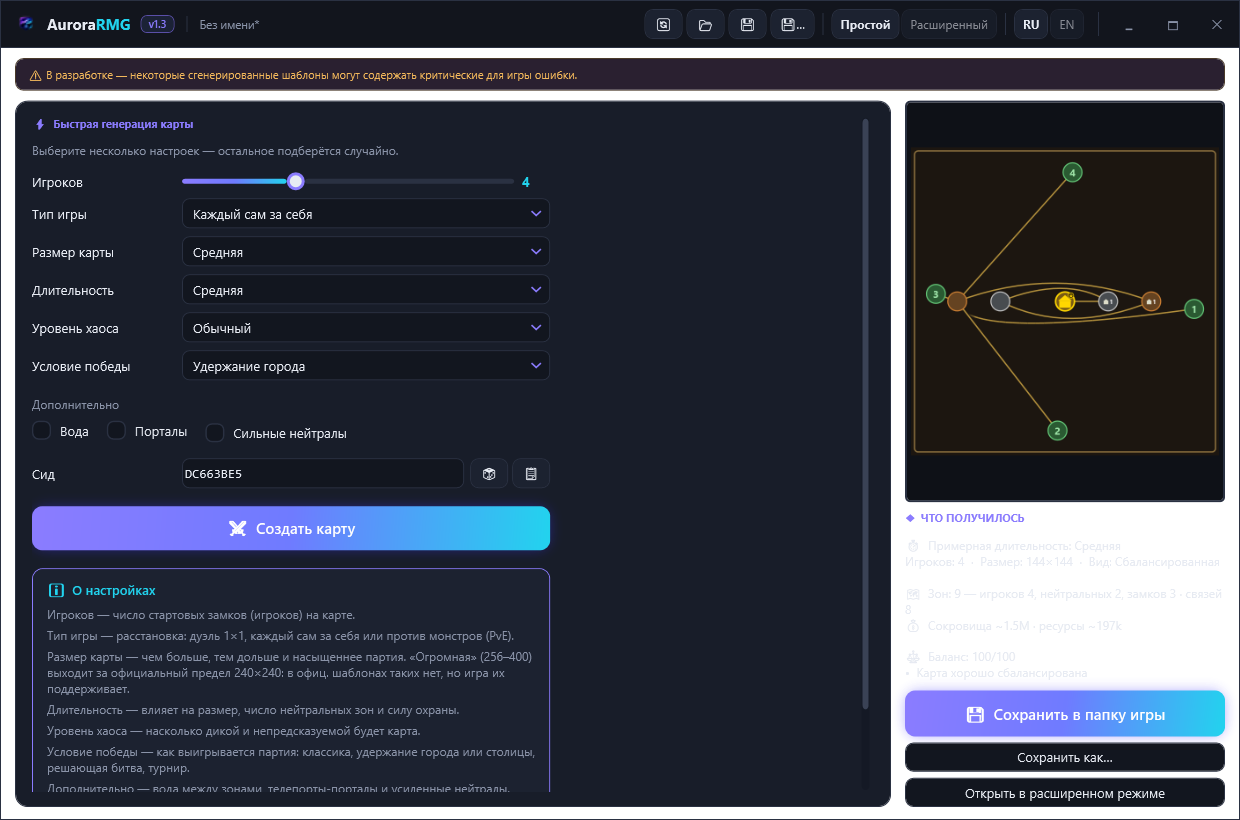
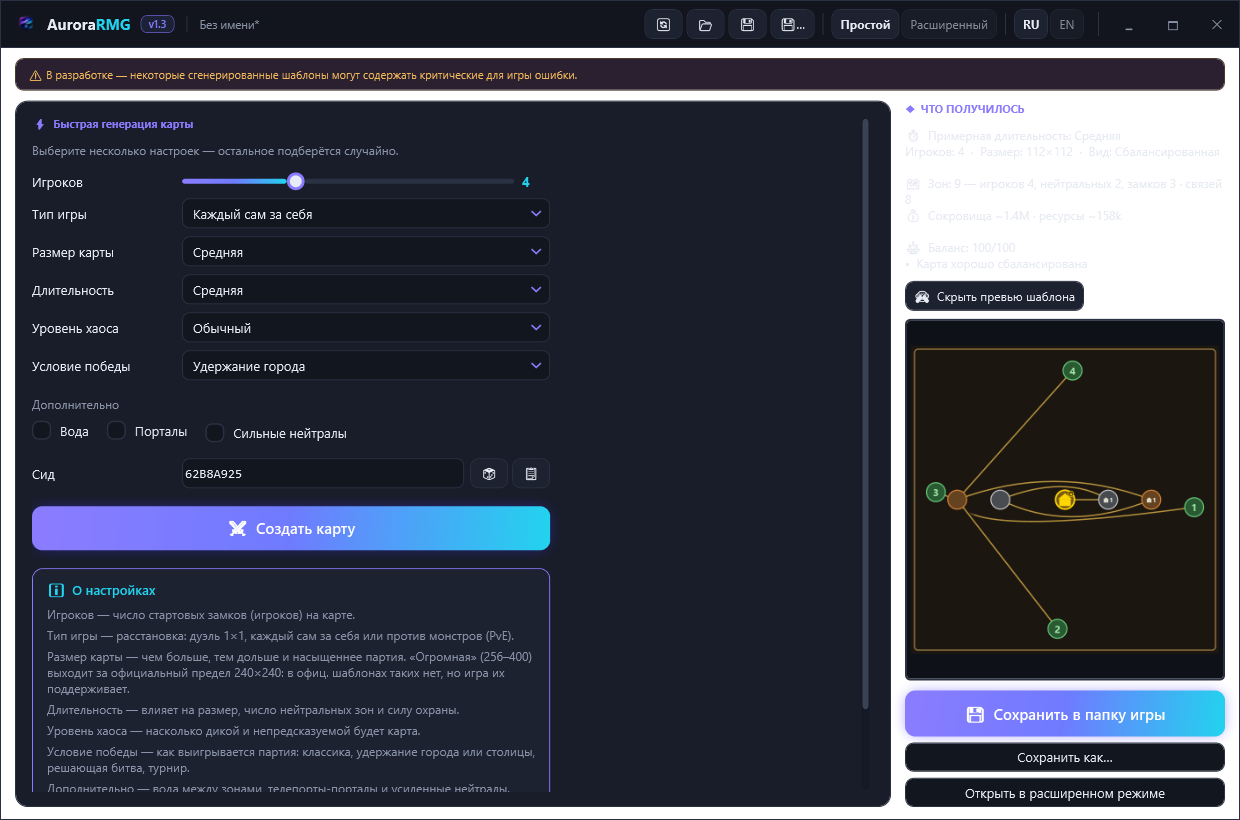
Release v1.3.1 — Simple Mode: hide preview behind a toggle + fix Reset settings
Feedback round 5 (Toni): "Reset settings" now works in Simple mode (it used to
reset only Advanced); the template preview is hidden by default behind a
Show/Hide toggle so the Simple generator feels genuinely random — the result
summary (length, players, balance) leads, and the map structure is one click away.
+2 RU/EN keys (parity green), build 0-warning, 113 tests green.

diff --git a/Olden Era - Template Editor/MainWindow.xaml b/Olden Era - Template Editor/MainWindow.xaml
@@ -3212,12 +3212,14 @@ ValueChanged="Slider_ValueChanged"/>
                     </ScrollViewer>
                 </Border>
 
-                <!-- ── Preview / summary / actions ─────────────────────── -->
+                <!-- ── Result summary / optional preview / actions ─────── -->
                 <Grid Grid.Column="2">
                     <Grid.RowDefinitions>
-                        <RowDefinition Height="*"/>     <!-- preview -->
+                        <RowDefinition Height="Auto"/>  <!-- result summary (leads) -->
+                        <RowDefinition Height="10"/>
+                        <RowDefinition Height="Auto"/>  <!-- show/hide preview toggle -->
                         <RowDefinition Height="8"/>
-                        <RowDefinition Height="Auto"/>  <!-- summary -->
+                        <RowDefinition Height="*"/>     <!-- collapsible preview / breathing room -->
                         <RowDefinition Height="10"/>
                         <RowDefinition Height="Auto"/>  <!-- save to game (primary) -->
                         <RowDefinition Height="6"/>
@@ -3226,7 +3228,22 @@ ValueChanged="Slider_ValueChanged"/>
                         <RowDefinition Height="Auto"/>  <!-- open advanced -->
                     </Grid.RowDefinitions>
 
-                    <Border Grid.Row="0" BorderThickness="2" CornerRadius="4"
+                    <!-- The result leads — keeps the "random map" feel; the template structure stays hidden. -->
+                    <StackPanel Grid.Row="0">
+                        <TextBlock Text="{DynamicResource S.Simple.SummaryTitle}" Style="{StaticResource SectionHeader}"/>
+                        <TextBlock x:Name="TxtSimpleSummary" TextWrapping="Wrap"
+                                   Foreground="{StaticResource BrushText}" FontSize="12"/>
+                    </StackPanel>
+
+                    <!-- Template preview is opt-in (hidden by default) for the "illusion of randomness". -->
+                    <Button Grid.Row="2" x:Name="BtnSimpleTogglePreview"
+                            Content="{DynamicResource S.Simple.ShowPreview}"
+                            HorizontalAlignment="Left"
+                            Style="{StaticResource ToolbarButton}"
+                            IsEnabled="False" Click="BtnSimpleTogglePreview_Click"/>
+
+                    <Border Grid.Row="4" x:Name="SimplePreviewBox" Visibility="Collapsed"
+                            BorderThickness="2" CornerRadius="4"
                             BorderBrush="{StaticResource BrushBorder}" Background="#0E1117">
                         <Grid>
                             <TextBlock x:Name="TxtSimpleNoPreview"
@@ -3241,22 +3258,16 @@ ValueChanged="Slider_ValueChanged"/>
                         </Grid>
                     </Border>
 
-                    <StackPanel Grid.Row="2">
-                        <TextBlock Text="{DynamicResource S.Simple.SummaryTitle}" Style="{StaticResource SectionHeader}"/>
-                        <TextBlock x:Name="TxtSimpleSummary" TextWrapping="Wrap"
-                                   Foreground="{StaticResource BrushText}" FontSize="12"/>
-                    </StackPanel>
-
-                    <Button Grid.Row="4" x:Name="BtnSimpleSaveToGame"
+                    <Button Grid.Row="6" x:Name="BtnSimpleSaveToGame"
                             Content="{DynamicResource S.Simple.SaveToGame}"
                             Style="{StaticResource GenerateButton}"
                             IsEnabled="False" Click="BtnSimpleSaveToGame_Click"/>
 
-                    <Button Grid.Row="6" x:Name="BtnSimpleSave"
+                    <Button Grid.Row="8" x:Name="BtnSimpleSave"
                             Content="{DynamicResource S.Simple.SaveAs}"
                             IsEnabled="False" Click="BtnSimpleSave_Click"/>
 
-                    <Button Grid.Row="8" x:Name="BtnSimpleOpenAdvanced"
+                    <Button Grid.Row="10" x:Name="BtnSimpleOpenAdvanced"
                             Content="{DynamicResource S.Simple.OpenAdvanced}"
                             IsEnabled="False" Click="BtnSimpleOpenAdvanced_Click"/>
                 </Grid>

diff --git a/Olden Era - Template Editor/MainWindow.xaml.cs b/Olden Era - Template Editor/MainWindow.xaml.cs
@@ -2048,10 +2048,42 @@ namespace Olden_Era___Template_Editor
             var result = MessageBox.Show(L.Get("S.D.ResetConfirm"), L.Get("S.D.ResetTitle"),
                                          MessageBoxButton.YesNo, MessageBoxImage.Question);
             if (result != MessageBoxResult.Yes) return;
+
+            // Simple Mode has its own controls (the Advanced ApplySettings does not touch them),
+            // so the reset must be routed to whichever view is currently shown.
+            if (SimpleView != null && SimpleView.Visibility == Visibility.Visible)
+            {
+                ResetSimpleToDefaults();
+                return;
+            }
+
             ApplySettings(new SettingsFile());
             _currentSettingsPath = null;
             _isDirty = false;
             UpdateTitle();
+        }
+
+        /// <summary>Resets the Simple-mode options to defaults (+ a fresh seed) and clears the last result,
+        /// mirroring what BtnNew does for the Advanced view. Used by the header "Reset settings" in Simple mode.</summary>
+        private void ResetSimpleToDefaults()
+        {
+            ApplySimpleState(new Services.GameData.SimpleModeState()); // default selections
+            TxtSimpleSeed.Text = ((uint)NewSeed()).ToString("X8");      // a fresh seed too
+            SaveSimpleState();                                          // persist the reset
+
+            // Clear the result panel + collapse the optional preview.
+            _generatedTemplate = null;
+            _lastQuickSettings = null;
+            if (ImgSimplePreview   != null) ImgSimplePreview.Source = null;
+            if (TxtSimpleNoPreview != null) TxtSimpleNoPreview.Visibility = Visibility.Visible;
+            if (SimplePreviewBox   != null) SimplePreviewBox.Visibility   = Visibility.Collapsed;
+            if (TxtSimpleSummary   != null) TxtSimpleSummary.Text = string.Empty;
+            BtnSimpleSaveToGame.IsEnabled   = false;
+            BtnSimpleSave.IsEnabled         = false;
+            BtnSimpleOpenAdvanced.IsEnabled = false;
+            if (BtnSimpleTogglePreview != null) BtnSimpleTogglePreview.IsEnabled = false;
+            BtnSaveGenerated.Visibility = Visibility.Collapsed;
+            UpdateSimplePreviewToggle();
         }
 
         private void BtnOpen_Click(object sender, RoutedEventArgs e)
@@ -2154,6 +2186,7 @@ namespace Olden_Era___Template_Editor
             BuildPresetMenu();          // submenu group names + preset display names
             RefreshBannedHeroNames();   // ban rows re-resolve names
             UpdateLanguageButtons();
+            UpdateSimplePreviewToggle();   // Simple-mode preview toggle caption (code-set, re-localize here)
             if (TxtWipWarning != null) TxtWipWarning.Text = L.Get("S.CB.Wip");
             if (IsInitialized) { Validate(); UpdateTitle(); }  // refresh validation hints in the new language
         }
@@ -2219,6 +2252,8 @@ namespace Olden_Era___Template_Editor
         {
             ApplySimpleState(Services.GameData.AppSettings.Current.Simple); // restore last-used selections
             TxtSimpleSeed.Text = ((uint)NewSeed()).ToString("X8");           // always a fresh seed per launch
+
+            UpdateSimplePreviewToggle();   // initial caption ("Show preview"); button stays disabled until a map exists
 
             bool advanced = string.Equals(Services.GameData.AppSettings.Current.Mode, "advanced", StringComparison.OrdinalIgnoreCase);
             SetMode(advanced, persist: false);
@@ -2331,8 +2366,28 @@ namespace Olden_Era___Template_Editor
             BtnSimpleSaveToGame.IsEnabled = true;
             BtnSimpleSave.IsEnabled = true;
             BtnSimpleOpenAdvanced.IsEnabled = true;
+            BtnSimpleTogglePreview.IsEnabled = true;          // preview is now available on demand
+            UpdateSimplePreviewToggle();                       // (re)sync the toggle caption; preview stays hidden by default
             BtnSaveGenerated.Visibility = Visibility.Visible; // keep the advanced save path in sync too
             SaveSimpleState();                                 // remember these selections for next launch
+        }
+
+        /// <summary>Toggles the optional template-structure preview in Simple mode. Hidden by default so the
+        /// generator feels like a "real random map generator"; the player reveals the layout only if they wish.</summary>
+        private void BtnSimpleTogglePreview_Click(object sender, RoutedEventArgs e)
+        {
+            if (SimplePreviewBox == null) return;
+            bool show = SimplePreviewBox.Visibility != Visibility.Visible;
+            SimplePreviewBox.Visibility = show ? Visibility.Visible : Visibility.Collapsed;
+            UpdateSimplePreviewToggle();
+        }
+
+        /// <summary>Syncs the Simple-mode preview toggle caption to the current preview visibility (re-localizable).</summary>
+        private void UpdateSimplePreviewToggle()
+        {
+            if (BtnSimpleTogglePreview == null) return;
+            bool shown = SimplePreviewBox != null && SimplePreviewBox.Visibility == Visibility.Visible;
+            BtnSimpleTogglePreview.Content = L.Get(shown ? "S.Simple.HidePreview" : "S.Simple.ShowPreview");
         }
 
         private static readonly string[] SimpleLenLabelKeys = ["S.Simple.Len.Short", "S.Simple.Len.Medium", "S.Simple.Len.Long"];

diff --git a/Olden Era - Template Editor/Localization/Strings.cs b/Olden Era - Template Editor/Localization/Strings.cs
@@ -34,6 +34,8 @@ namespace Olden_Era___Template_Editor.Localization
             ["S.Simple.OpenAdvanced"]    = "Открыть в расширенном режиме",
             ["S.Simple.SummaryTitle"]    = "◆  ЧТО ПОЛУЧИЛОСЬ",
             ["S.Simple.NoPreview"]       = "Нажмите «Создать карту»",
+            ["S.Simple.ShowPreview"]     = "👁  Показать превью шаблона",
+            ["S.Simple.HidePreview"]     = "🙈  Скрыть превью шаблона",
             ["S.Simple.Type.Duel"]       = "Дуэль (1 на 1)",
             ["S.Simple.Type.FFA"]        = "Каждый сам за себя",
             ["S.Simple.Type.Pve"]        = "Против монстров (PvE)",
@@ -507,6 +509,8 @@ namespace Olden_Era___Template_Editor.Localization
             ["S.Simple.OpenAdvanced"]    = "Open in Advanced mode",
             ["S.Simple.SummaryTitle"]    = "◆  RESULT",
             ["S.Simple.NoPreview"]       = "Click \"Create map\"",
+            ["S.Simple.ShowPreview"]     = "👁  Show template preview",
+            ["S.Simple.HidePreview"]     = "🙈  Hide template preview",
             ["S.Simple.Type.Duel"]       = "Duel (1v1)",
             ["S.Simple.Type.FFA"]        = "Free-for-all",
             ["S.Simple.Type.Pve"]        = "Versus monsters (PvE)",

diff --git a/Olden Era - Template Editor/MainWindow.Shoot.cs b/Olden Era - Template Editor/MainWindow.Shoot.cs
@@ -86,6 +86,8 @@ namespace Olden_Era___Template_Editor
                 // ── Simple Mode (the default landing view) ──
                 SetMode(advanced: false, persist: false);
                 try { BtnSimpleGenerate_Click(this, new RoutedEventArgs()); } catch { /* preview is best-effort */ }
+                // Reveal the (default-hidden) preview so the docs screenshot shows the full feature.
+                try { if (SimplePreviewBox != null) { SimplePreviewBox.Visibility = Visibility.Visible; UpdateSimplePreviewToggle(); } } catch { }
                 await Dispatcher.Yield(DispatcherPriority.Background);
                 root.UpdateLayout();
                 await Task.Delay(550);

diff --git a/README.en.md b/README.en.md
@@ -24,13 +24,18 @@
 
 ---
 
-## 🆕 What's new in 1.3.0
+## 🆕 What's new in 1.3.1
 
-### 🗺 Large maps — bigger than 240×240
-
-By popular request you can now create maps larger than the old 240×240 cap — better for long, rich games.
+### 🎲 Simple Mode got cleaner — from player feedback
 
 ![Simple Mode](docs/ui-simple-en.png)
+
+- **The template preview is hidden by default.** Simple Mode now leads with the result ("what you got" + the balance score); the map structure is one click away via **"👁 Show template preview"** — so generation feels genuinely random.
+- **"Reset settings" now works in Simple Mode too.** It used to reset only Advanced — now it resets Simple as well (fresh seed, cleared result).
+
+### 🗺 Large maps — bigger than 240×240 *(from 1.3.0)*
+
+By popular request you can now create maps larger than the old 240×240 cap — better for long, rich games.
 
 - In **Simple Mode** — a new map size **"Huge (256–400)"**.
 - In **Advanced Mode** the large-maps option **256×256 … 512×512** is now in plain sight — a highlighted checkbox right under the size picker (it existed before, but was hard to find).
@@ -51,7 +56,7 @@ Neutral zones now reliably get **signature objects** (dragon utopias, research l
 
 ## 📑 Contents
 
-- [What's new in 1.3.0](#-whats-new-in-130)
+- [What's new in 1.3.1](#-whats-new-in-131)
 - [What is this](#-what-is-this)
 - [Installation](#-installation)
 - [Build authenticity verification](#-build-authenticity-verification)

diff --git a/README.md b/README.md
@@ -24,13 +24,18 @@
 
 ---
 
-## 🆕 Что нового в 1.3.0
+## 🆕 Что нового в 1.3.1
 
-### 🗺 Большие карты — больше 240×240
-
-По просьбам игроков теперь можно создавать карты крупнее прежнего предела 240×240 — на них интереснее долгие, насыщенные партии.
+### 🎲 Простой режим стал чище — по фидбэку игроков
 
 ![Простой режим](docs/ui-simple.png)
+
+- **Превью шаблона скрыто по умолчанию.** Простой режим теперь ведёт результатом («что получилось» + оценка баланса), а структуру карты можно раскрыть кнопкой **«👁 Показать превью шаблона»** — так генерация ощущается по-настоящему случайной.
+- **«Сбросить настройки» работает и в простом режиме.** Раньше кнопка сбрасывала только расширенный режим — теперь и простой тоже (свежий сид, чистый результат).
+
+### 🗺 Большие карты — больше 240×240 *(из 1.3.0)*
+
+По просьбам игроков теперь можно создавать карты крупнее прежнего предела 240×240 — на них интереснее долгие, насыщенные партии.
 
 - В **простом режиме** — новый размер карты **«Огромная (256–400)»**.
 - В **расширенном режиме** опция больших карт **256×256 … 512×512** теперь на виду — заметная отметка прямо под выбором размера (она была и раньше, но её было трудно найти).
@@ -51,7 +56,7 @@
 
 ## 📑 Содержание
 
-- [Что нового в 1.3.0](#-что-нового-в-130)
+- [Что нового в 1.3.1](#-что-нового-в-131)
 - [Что это такое](#-что-это-такое)
 - [Установка](#-установка)
 - [Проверка подлинности сборки](#-проверка-подлинности-сборки)